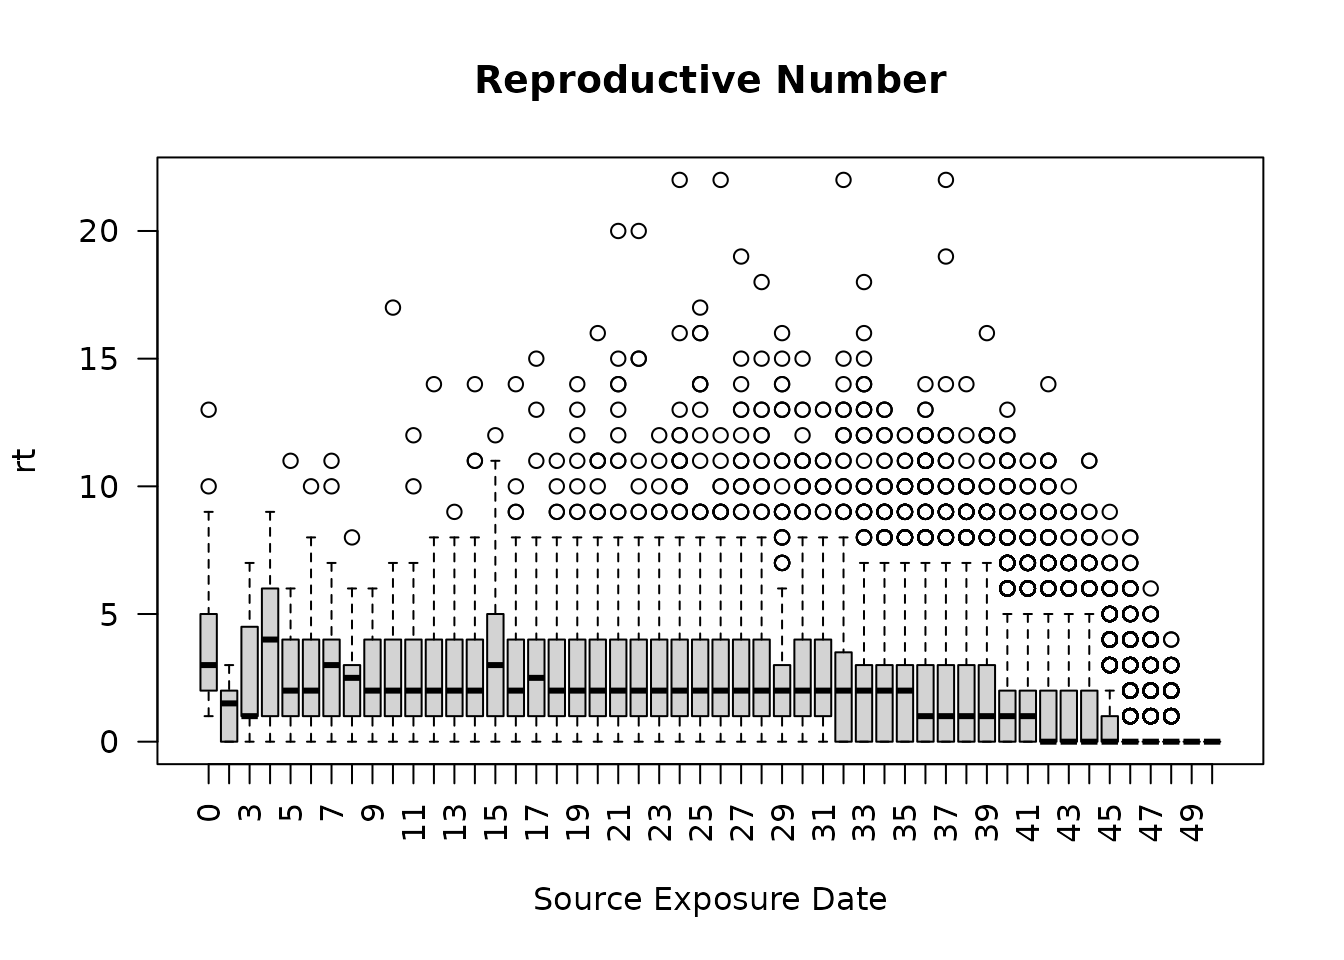
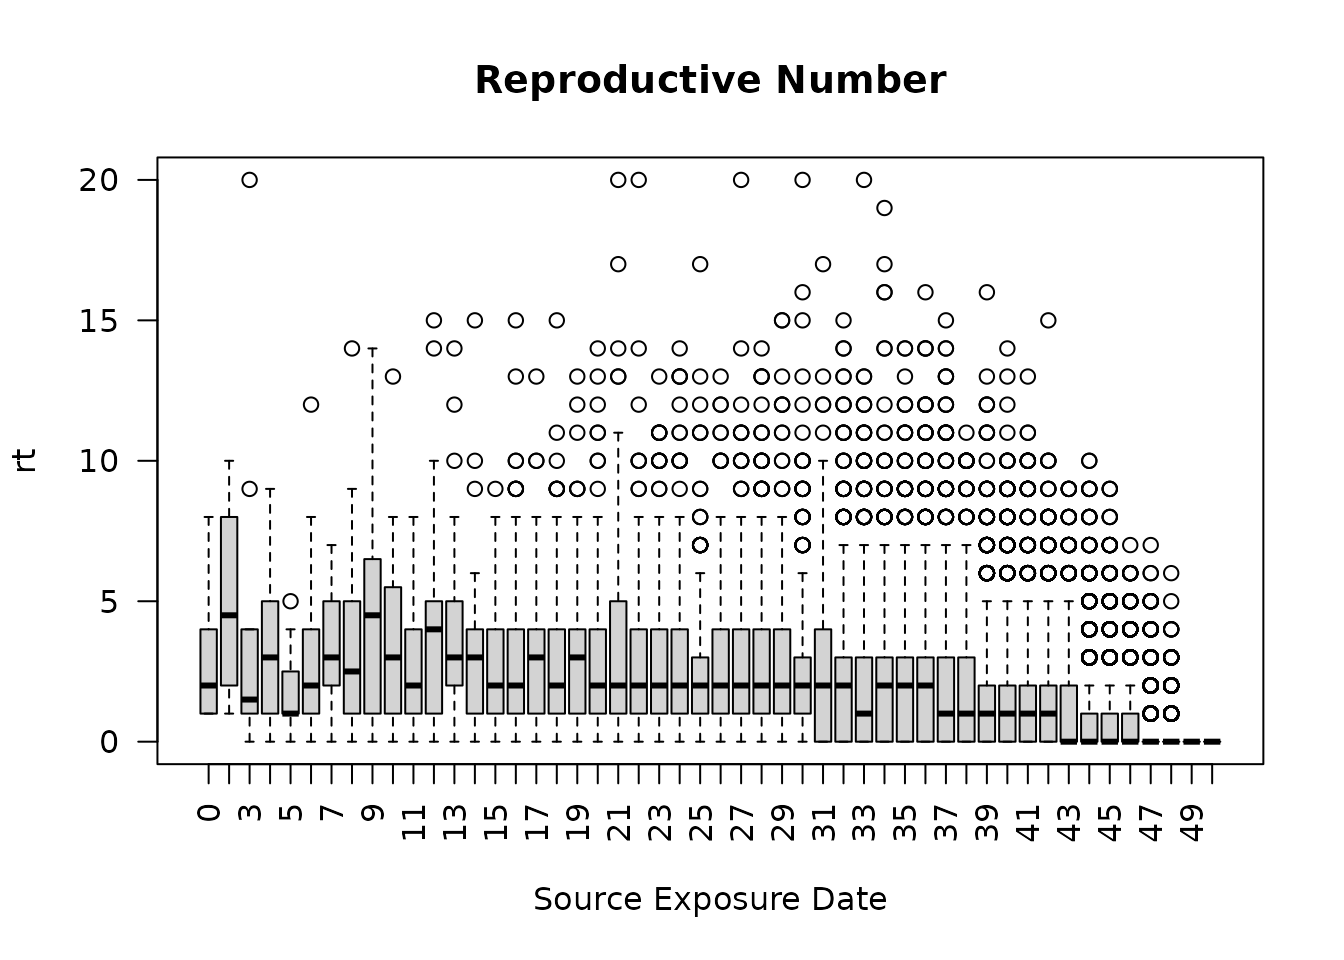
Deploying to gh-pages from @ UofUEpiBio/epiworldR@cee5bdea62a8420730d329b8182aef49c561d0da 🚀

diff --git a/articles/run-multiple.html b/articles/run-multiple.html
@@ -68,7 +68,7 @@ Meyer</h4>
                         <h4 data-toc-skip class="author">George Vega
 Yon</h4>
             
-            <h4 data-toc-skip class="date">2023-05-02</h4>
+            <h4 data-toc-skip class="date">2023-05-03</h4>
       
       
       <div class="d-none name"><code>run-multiple.Rmd</code></div>
@@ -138,15 +138,15 @@ simulations.</p>
 <span><span class="co">#&gt; 3       1      0    0         1    Infected      0</span></span>
 <span><span class="co">#&gt; 4       1      0    0         1   Recovered      0</span></span>
 <span><span class="co">#&gt; 5       1      0    1         1 Susceptible   9999</span></span>
-<span><span class="co">#&gt; 6       1      0    1         1     Exposed      1</span></span>
+<span><span class="co">#&gt; 6       1      0    1         1     Exposed      0</span></span>
 <span><span class="fu"><a href="https://rdrr.io/r/utils/head.html" class="external-link">head</a></span><span class="op">(</span><span class="va">ans</span><span class="op">$</span><span class="va">reproductive</span><span class="op">)</span></span>
 <span><span class="co">#&gt;   sim_num thread variant source source_exposure_date rt</span></span>
-<span><span class="co">#&gt; 1       2      0       0     13                   50  0</span></span>
-<span><span class="co">#&gt; 2       2      0       0    152                   50  0</span></span>
-<span><span class="co">#&gt; 3       2      0       0    353                   50  0</span></span>
-<span><span class="co">#&gt; 4       2      0       0    403                   50  0</span></span>
-<span><span class="co">#&gt; 5       2      0       0    476                   50  0</span></span>
-<span><span class="co">#&gt; 6       2      0       0    529                   50  0</span></span></code></pre></div>
+<span><span class="co">#&gt; 1       1      0       0      7                   50  0</span></span>
+<span><span class="co">#&gt; 2       1      0       0    127                   50  0</span></span>
+<span><span class="co">#&gt; 3       1      0       0    243                   50  0</span></span>
+<span><span class="co">#&gt; 4       1      0       0    270                   50  0</span></span>
+<span><span class="co">#&gt; 5       1      0       0    336                   50  0</span></span>
+<span><span class="co">#&gt; 6       1      0       0    376                   50  0</span></span></code></pre></div>
 </div>
 <div class="section level3">
 <h3 id="plotting">Plotting<a class="anchor" aria-label="anchor" href="#plotting"></a>
@@ -161,8 +161,8 @@ values from each of the 50 simulations for each date.</p>
 <code class="sourceCode R"><span><span class="va">seirconn_50</span> <span class="op">&lt;-</span> <span class="fu"><a href="../reference/run_multiple.html">run_multiple_get_results</a></span><span class="op">(</span><span class="va">model_seirconn</span><span class="op">)</span><span class="op">$</span><span class="va">total_hist</span></span>
 <span><span class="va">seirconn_50</span> <span class="op">&lt;-</span> <span class="va">seirconn_50</span><span class="op">[</span><span class="va">seirconn_50</span><span class="op">$</span><span class="va">date</span> <span class="op">&lt;=</span> <span class="fl">20</span>,<span class="op">]</span></span>
 <span></span>
-<span><span class="fu"><a href="https://rdrr.io/r/graphics/par.html" class="external-link">par</a></span><span class="op">(</span>mfrow <span class="op">=</span> <span class="fu"><a href="https://rdrr.io/r/base/c.html" class="external-link">c</a></span><span class="op">(</span><span class="fu"><a href="https://rdrr.io/r/base/length.html" class="external-link">length</a></span><span class="op">(</span><span class="fu"><a href="https://rdrr.io/r/base/unique.html" class="external-link">unique</a></span><span class="op">(</span><span class="va">seirconn_50</span><span class="op">$</span><span class="va">state</span><span class="op">)</span><span class="op">)</span><span class="op">/</span><span class="fl">2</span>,</span>
-<span>              <span class="fu"><a href="https://rdrr.io/r/base/length.html" class="external-link">length</a></span><span class="op">(</span><span class="fu"><a href="https://rdrr.io/r/base/unique.html" class="external-link">unique</a></span><span class="op">(</span><span class="va">seirconn_50</span><span class="op">$</span><span class="va">state</span><span class="op">)</span><span class="op">)</span><span class="op">/</span><span class="fl">2</span><span class="op">)</span><span class="op">)</span></span>
+<span><span class="fu"><a href="https://rdrr.io/r/graphics/par.html" class="external-link">par</a></span><span class="op">(</span>mfrow <span class="op">=</span> <span class="fu"><a href="https://rdrr.io/r/base/c.html" class="external-link">c</a></span><span class="op">(</span><span class="fl">2</span>,</span>
+<span>              <span class="fu"><a href="https://rdrr.io/r/base/Round.html" class="external-link">floor</a></span><span class="op">(</span><span class="fu"><a href="https://rdrr.io/r/base/length.html" class="external-link">length</a></span><span class="op">(</span><span class="fu"><a href="https://rdrr.io/r/base/unique.html" class="external-link">unique</a></span><span class="op">(</span><span class="va">seirconn_50</span><span class="op">$</span><span class="va">state</span><span class="op">)</span><span class="op">)</span><span class="op">/</span><span class="fl">2</span><span class="op">)</span><span class="op">)</span><span class="op">)</span></span>
 <span></span>
 <span><span class="kw">for</span> <span class="op">(</span><span class="va">cat</span> <span class="kw">in</span> <span class="fu"><a href="https://rdrr.io/r/base/unique.html" class="external-link">unique</a></span><span class="op">(</span><span class="va">seirconn_50</span><span class="op">$</span><span class="va">state</span><span class="op">)</span><span class="op">)</span> <span class="op">{</span></span>
 <span><span class="fu"><a href="https://rdrr.io/r/graphics/boxplot.html" class="external-link">boxplot</a></span><span class="op">(</span><span class="va">counts</span> <span class="op">~</span> <span class="va">date</span>, data <span class="op">=</span> <span class="va">seirconn_50</span>,</span>

diff --git a/reference/ModelSEIRCONN.html b/reference/ModelSEIRCONN.html
@@ -152,8 +152,8 @@ incubation days.</p></dd>
 <span class="r-out co"><span class="r-pr">#&gt;</span> Number of entities  : 0</span>
 <span class="r-out co"><span class="r-pr">#&gt;</span> Days (duration)     : 100 (of 100)</span>
 <span class="r-out co"><span class="r-pr">#&gt;</span> Number of variants  : 1</span>
-<span class="r-out co"><span class="r-pr">#&gt;</span> Last run elapsed t  : 118.00ms</span>
-<span class="r-out co"><span class="r-pr">#&gt;</span> Last run speed      : 8.41 million agents x day / second</span>
+<span class="r-out co"><span class="r-pr">#&gt;</span> Last run elapsed t  : 99.00ms</span>
+<span class="r-out co"><span class="r-pr">#&gt;</span> Last run speed      : 10.00 million agents x day / second</span>
 <span class="r-out co"><span class="r-pr">#&gt;</span> Rewiring            : off</span>
 <span class="r-out co"><span class="r-pr">#&gt;</span> </span>
 <span class="r-out co"><span class="r-pr">#&gt;</span> Virus(es):</span>
@@ -204,10 +204,10 @@ incubation days.</p></dd>
 <span class="r-out co"><span class="r-pr">#&gt;</span> Number of entities  : 0</span>
 <span class="r-out co"><span class="r-pr">#&gt;</span> Days (duration)     : 100 (of 100)</span>
 <span class="r-out co"><span class="r-pr">#&gt;</span> Number of variants  : 2</span>
-<span class="r-out co"><span class="r-pr">#&gt;</span> Last run elapsed t  : 93.00ms</span>
-<span class="r-out co"><span class="r-pr">#&gt;</span> Total elapsed t     : 212.00ms (2 runs)</span>
-<span class="r-out co"><span class="r-pr">#&gt;</span> Last run speed      : 10.68 million agents x day / second</span>
-<span class="r-out co"><span class="r-pr">#&gt;</span> Average run speed   : 9.41 million agents x day / second</span>
+<span class="r-out co"><span class="r-pr">#&gt;</span> Last run elapsed t  : 79.00ms</span>
+<span class="r-out co"><span class="r-pr">#&gt;</span> Total elapsed t     : 179.00ms (2 runs)</span>
+<span class="r-out co"><span class="r-pr">#&gt;</span> Last run speed      : 12.54 million agents x day / second</span>
+<span class="r-out co"><span class="r-pr">#&gt;</span> Average run speed   : 11.13 million agents x day / second</span>
 <span class="r-out co"><span class="r-pr">#&gt;</span> Rewiring            : off</span>
 <span class="r-out co"><span class="r-pr">#&gt;</span> </span>
 <span class="r-out co"><span class="r-pr">#&gt;</span> Virus(es):</span>

diff --git a/articles/getting-started.html b/articles/getting-started.html
@@ -68,7 +68,7 @@ Meyer</h4>
                         <h4 data-toc-skip class="author">George Vega
 Yon</h4>
             
-            <h4 data-toc-skip class="date">2023-05-02</h4>
+            <h4 data-toc-skip class="date">2023-05-03</h4>
       
       
       <div class="d-none name"><code>getting-started.Rmd</code></div>
@@ -164,7 +164,7 @@ model_sir.</p>
 <span><span class="co">#&gt; Days (duration)     : 50 (of 50)</span></span>
 <span><span class="co">#&gt; Number of variants  : 1</span></span>
 <span><span class="co">#&gt; Last run elapsed t  : 1.00s</span></span>
-<span><span class="co">#&gt; Last run speed      : 2.56 million agents x day / second</span></span>
+<span><span class="co">#&gt; Last run speed      : 3.44 million agents x day / second</span></span>
 <span><span class="co">#&gt; Rewiring            : off</span></span>
 <span><span class="co">#&gt; </span></span>
 <span><span class="co">#&gt; Virus(es):</span></span>
@@ -314,9 +314,9 @@ sections.</p>
 <span><span class="co">#&gt; Days (duration)     : 50 (of 50)</span></span>
 <span><span class="co">#&gt; Number of variants  : 2</span></span>
 <span><span class="co">#&gt; Last run elapsed t  : 1.00s</span></span>
-<span><span class="co">#&gt; Total elapsed t     : 3.00s (2 runs)</span></span>
-<span><span class="co">#&gt; Last run speed      : 2.51 million agents x day / second</span></span>
-<span><span class="co">#&gt; Average run speed   : 2.53 million agents x day / second</span></span>
+<span><span class="co">#&gt; Total elapsed t     : 2.00s (2 runs)</span></span>
+<span><span class="co">#&gt; Last run speed      : 3.29 million agents x day / second</span></span>
+<span><span class="co">#&gt; Average run speed   : 3.36 million agents x day / second</span></span>
 <span><span class="co">#&gt; Rewiring            : off</span></span>
 <span><span class="co">#&gt; </span></span>
 <span><span class="co">#&gt; Virus(es):</span></span>

diff --git a/reference/tool.html b/reference/tool.html
@@ -222,8 +222,8 @@ read directly from the <code>model</code> object, so changes will be reflected.<
 <span class="r-out co"><span class="r-pr">#&gt;</span> Number of variants  : 1</span>
 <span class="r-out co"><span class="r-pr">#&gt;</span> Last run elapsed t  : 1.00s</span>
 <span class="r-out co"><span class="r-pr">#&gt;</span> Total elapsed t     : 1.00s (2 runs)</span>
-<span class="r-out co"><span class="r-pr">#&gt;</span> Last run speed      : 0.71 million agents x day / second</span>
-<span class="r-out co"><span class="r-pr">#&gt;</span> Average run speed   : 1.16 million agents x day / second</span>
+<span class="r-out co"><span class="r-pr">#&gt;</span> Last run speed      : 0.86 million agents x day / second</span>
+<span class="r-out co"><span class="r-pr">#&gt;</span> Average run speed   : 1.42 million agents x day / second</span>
 <span class="r-out co"><span class="r-pr">#&gt;</span> Rewiring            : off</span>
 <span class="r-out co"><span class="r-pr">#&gt;</span> </span>
 <span class="r-out co"><span class="r-pr">#&gt;</span> Virus(es):</span>

diff --git a/reference/virus.html b/reference/virus.html
@@ -208,8 +208,8 @@ read directly from the <code>model</code> object, so changes will be reflected.<
 <span class="r-out co"><span class="r-pr">#&gt;</span> Number of entities  : 0</span>
 <span class="r-out co"><span class="r-pr">#&gt;</span> Days (duration)     : 100 (of 100)</span>
 <span class="r-out co"><span class="r-pr">#&gt;</span> Number of variants  : 2</span>
-<span class="r-out co"><span class="r-pr">#&gt;</span> Last run elapsed t  : 246.00ms</span>
-<span class="r-out co"><span class="r-pr">#&gt;</span> Last run speed      : 4.06 million agents x day / second</span>
+<span class="r-out co"><span class="r-pr">#&gt;</span> Last run elapsed t  : 208.00ms</span>
+<span class="r-out co"><span class="r-pr">#&gt;</span> Last run speed      : 4.79 million agents x day / second</span>
 <span class="r-out co"><span class="r-pr">#&gt;</span> Rewiring            : off</span>
 <span class="r-out co"><span class="r-pr">#&gt;</span> </span>
 <span class="r-out co"><span class="r-pr">#&gt;</span> Virus(es):</span>

diff --git a/reference/ModelSEIR.html b/reference/ModelSEIR.html
@@ -134,8 +134,8 @@ incubation days.</p></dd>
 <span class="r-out co"><span class="r-pr">#&gt;</span> Number of entities  : 0</span>
 <span class="r-out co"><span class="r-pr">#&gt;</span> Days (duration)     : 100 (of 100)</span>
 <span class="r-out co"><span class="r-pr">#&gt;</span> Number of variants  : 1</span>
-<span class="r-out co"><span class="r-pr">#&gt;</span> Last run elapsed t  : 2.00ms</span>
-<span class="r-out co"><span class="r-pr">#&gt;</span> Last run speed      : 41.72 million agents x day / second</span>
+<span class="r-out co"><span class="r-pr">#&gt;</span> Last run elapsed t  : 1.00ms</span>
+<span class="r-out co"><span class="r-pr">#&gt;</span> Last run speed      : 50.03 million agents x day / second</span>
 <span class="r-out co"><span class="r-pr">#&gt;</span> Rewiring            : off</span>
 <span class="r-out co"><span class="r-pr">#&gt;</span> </span>
 <span class="r-out co"><span class="r-pr">#&gt;</span> Virus(es):</span>

diff --git a/reference/ModelSIRCONN.html b/reference/ModelSIRCONN.html
@@ -141,8 +141,8 @@ transmission.</p></dd>
 <span class="r-out co"><span class="r-pr">#&gt;</span> Number of entities  : 0</span>
 <span class="r-out co"><span class="r-pr">#&gt;</span> Days (duration)     : 100 (of 100)</span>
 <span class="r-out co"><span class="r-pr">#&gt;</span> Number of variants  : 1</span>
-<span class="r-out co"><span class="r-pr">#&gt;</span> Last run elapsed t  : 312.00ms</span>
-<span class="r-out co"><span class="r-pr">#&gt;</span> Last run speed      : 3.20 million agents x day / second</span>
+<span class="r-out co"><span class="r-pr">#&gt;</span> Last run elapsed t  : 254.00ms</span>
+<span class="r-out co"><span class="r-pr">#&gt;</span> Last run speed      : 3.93 million agents x day / second</span>
 <span class="r-out co"><span class="r-pr">#&gt;</span> Rewiring            : off</span>
 <span class="r-out co"><span class="r-pr">#&gt;</span> </span>
 <span class="r-out co"><span class="r-pr">#&gt;</span> Virus(es):</span>

diff --git a/reference/ModelSURV.html b/reference/ModelSURV.html
@@ -198,8 +198,8 @@ individuals.</p></dd>
 <span class="r-out co"><span class="r-pr">#&gt;</span> Number of entities  : 0</span>
 <span class="r-out co"><span class="r-pr">#&gt;</span> Days (duration)     : 100 (of 100)</span>
 <span class="r-out co"><span class="r-pr">#&gt;</span> Number of variants  : 1</span>
-<span class="r-out co"><span class="r-pr">#&gt;</span> Last run elapsed t  : 7.00ms</span>
-<span class="r-out co"><span class="r-pr">#&gt;</span> Last run speed      : 134.95 million agents x day / second</span>
+<span class="r-out co"><span class="r-pr">#&gt;</span> Last run elapsed t  : 6.00ms</span>
+<span class="r-out co"><span class="r-pr">#&gt;</span> Last run speed      : 162.23 million agents x day / second</span>
 <span class="r-out co"><span class="r-pr">#&gt;</span> Rewiring            : off</span>
 <span class="r-out co"><span class="r-pr">#&gt;</span> </span>
 <span class="r-out co"><span class="r-pr">#&gt;</span> Virus(es):</span>

diff --git a/reference/ModelSIS.html b/reference/ModelSIS.html
@@ -129,8 +129,8 @@ infection</p></dd>
 <span class="r-out co"><span class="r-pr">#&gt;</span> Number of entities  : 0</span>
 <span class="r-out co"><span class="r-pr">#&gt;</span> Days (duration)     : 100 (of 100)</span>
 <span class="r-out co"><span class="r-pr">#&gt;</span> Number of variants  : 1</span>
-<span class="r-out co"><span class="r-pr">#&gt;</span> Last run elapsed t  : 18.00ms</span>
-<span class="r-out co"><span class="r-pr">#&gt;</span> Last run speed      : 5.28 million agents x day / second</span>
+<span class="r-out co"><span class="r-pr">#&gt;</span> Last run elapsed t  : 14.00ms</span>
+<span class="r-out co"><span class="r-pr">#&gt;</span> Last run speed      : 6.68 million agents x day / second</span>
 <span class="r-out co"><span class="r-pr">#&gt;</span> Rewiring            : off</span>
 <span class="r-out co"><span class="r-pr">#&gt;</span> </span>
 <span class="r-out co"><span class="r-pr">#&gt;</span> Virus(es):</span>

diff --git a/reference/ModelSIR.html b/reference/ModelSIR.html
@@ -130,7 +130,7 @@ infection.</p></dd>
 <span class="r-out co"><span class="r-pr">#&gt;</span> Days (duration)     : 100 (of 100)</span>
 <span class="r-out co"><span class="r-pr">#&gt;</span> Number of variants  : 1</span>
 <span class="r-out co"><span class="r-pr">#&gt;</span> Last run elapsed t  : 2.00ms</span>
-<span class="r-out co"><span class="r-pr">#&gt;</span> Last run speed      : 34.32 million agents x day / second</span>
+<span class="r-out co"><span class="r-pr">#&gt;</span> Last run speed      : 43.40 million agents x day / second</span>
 <span class="r-out co"><span class="r-pr">#&gt;</span> Rewiring            : off</span>
 <span class="r-out co"><span class="r-pr">#&gt;</span> </span>
 <span class="r-out co"><span class="r-pr">#&gt;</span> Virus(es):</span>
